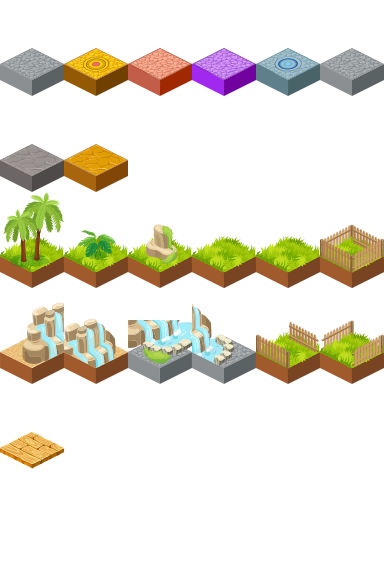
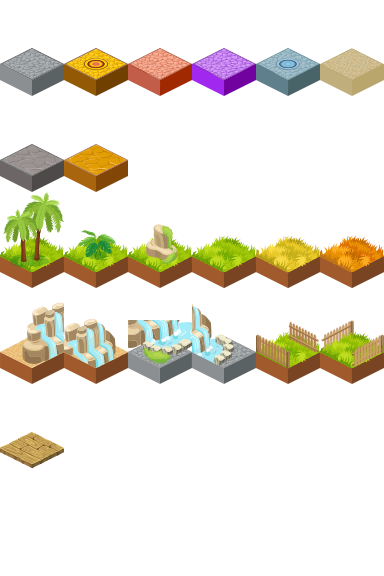
style: mejorar colores isométricos de bloques y ajustar tamaño del canvas

diff --git a/src/game/main.ts b/src/game/main.ts
@@ -9,7 +9,7 @@ import * as Phaser from 'phaser';
 const config: Phaser.Types.Core.GameConfig = {
     type: AUTO,
     width: 768,
-    height: 768,
+    height: 600,
     parent: 'game-container',
     pixelArt: false,
     scale: {
@@ -17,10 +17,10 @@ const config: Phaser.Types.Core.GameConfig = {
         autoCenter: Phaser.Scale.Center.CENTER_BOTH,
         max: {
             width: 768,
-            height: 768,
+            height: 600,
         },
         width: 768,
-        height: 768,
+        height: 600,
     },
     backgroundColor: '#121820',
     scene: [